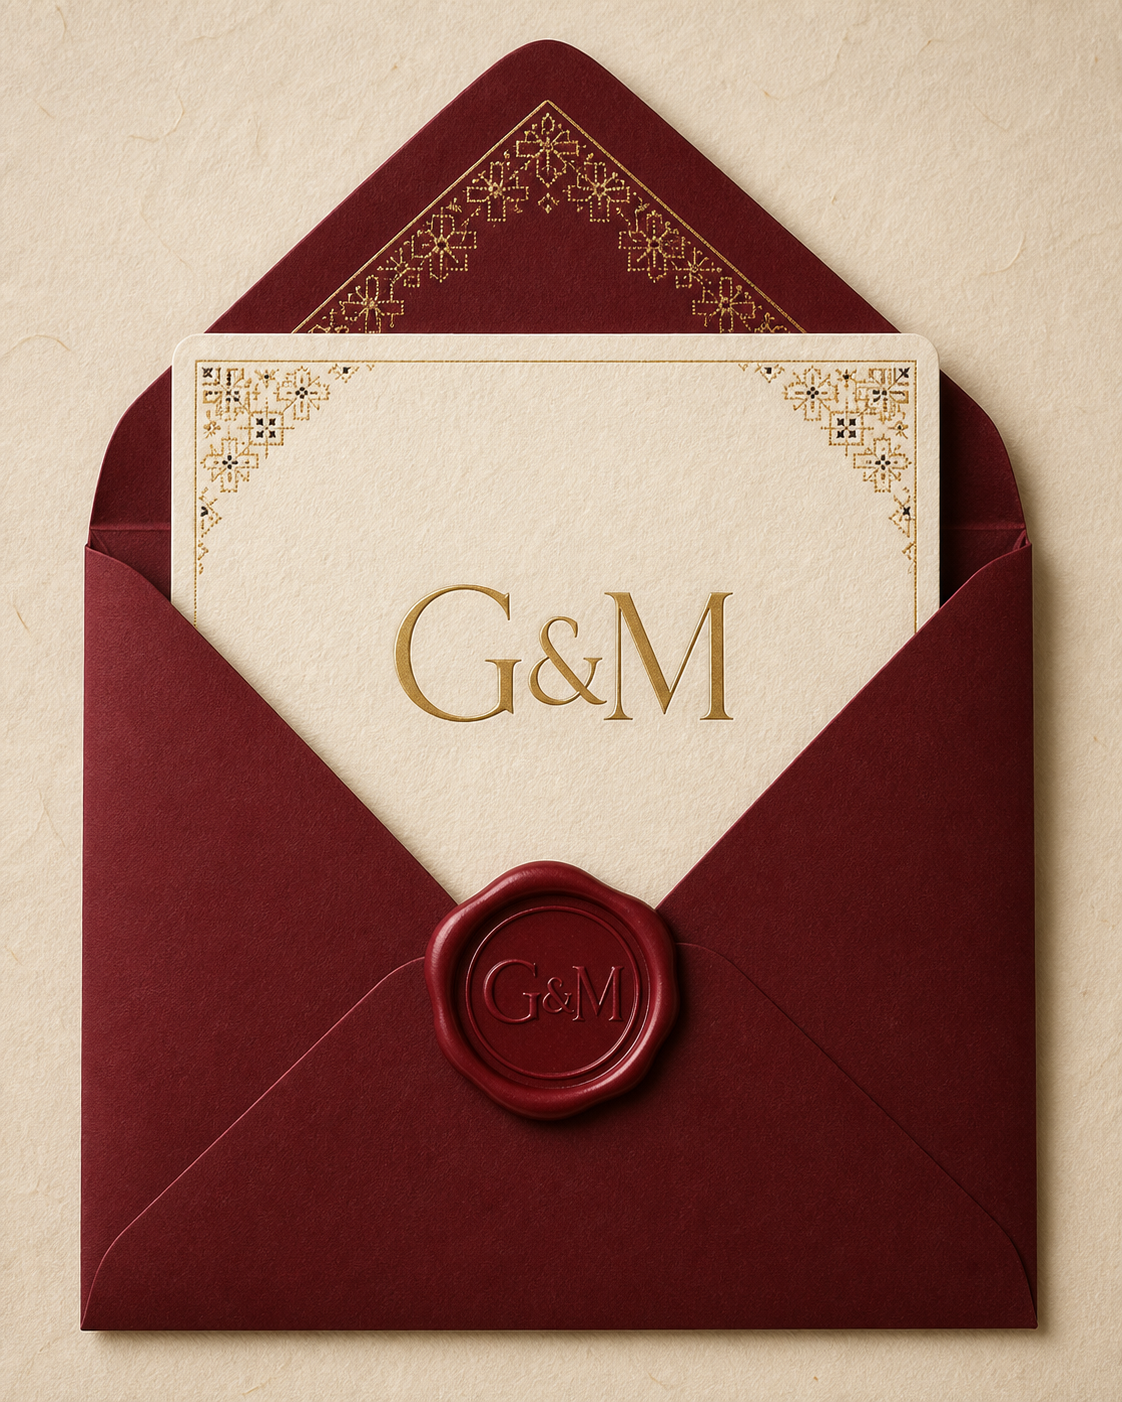
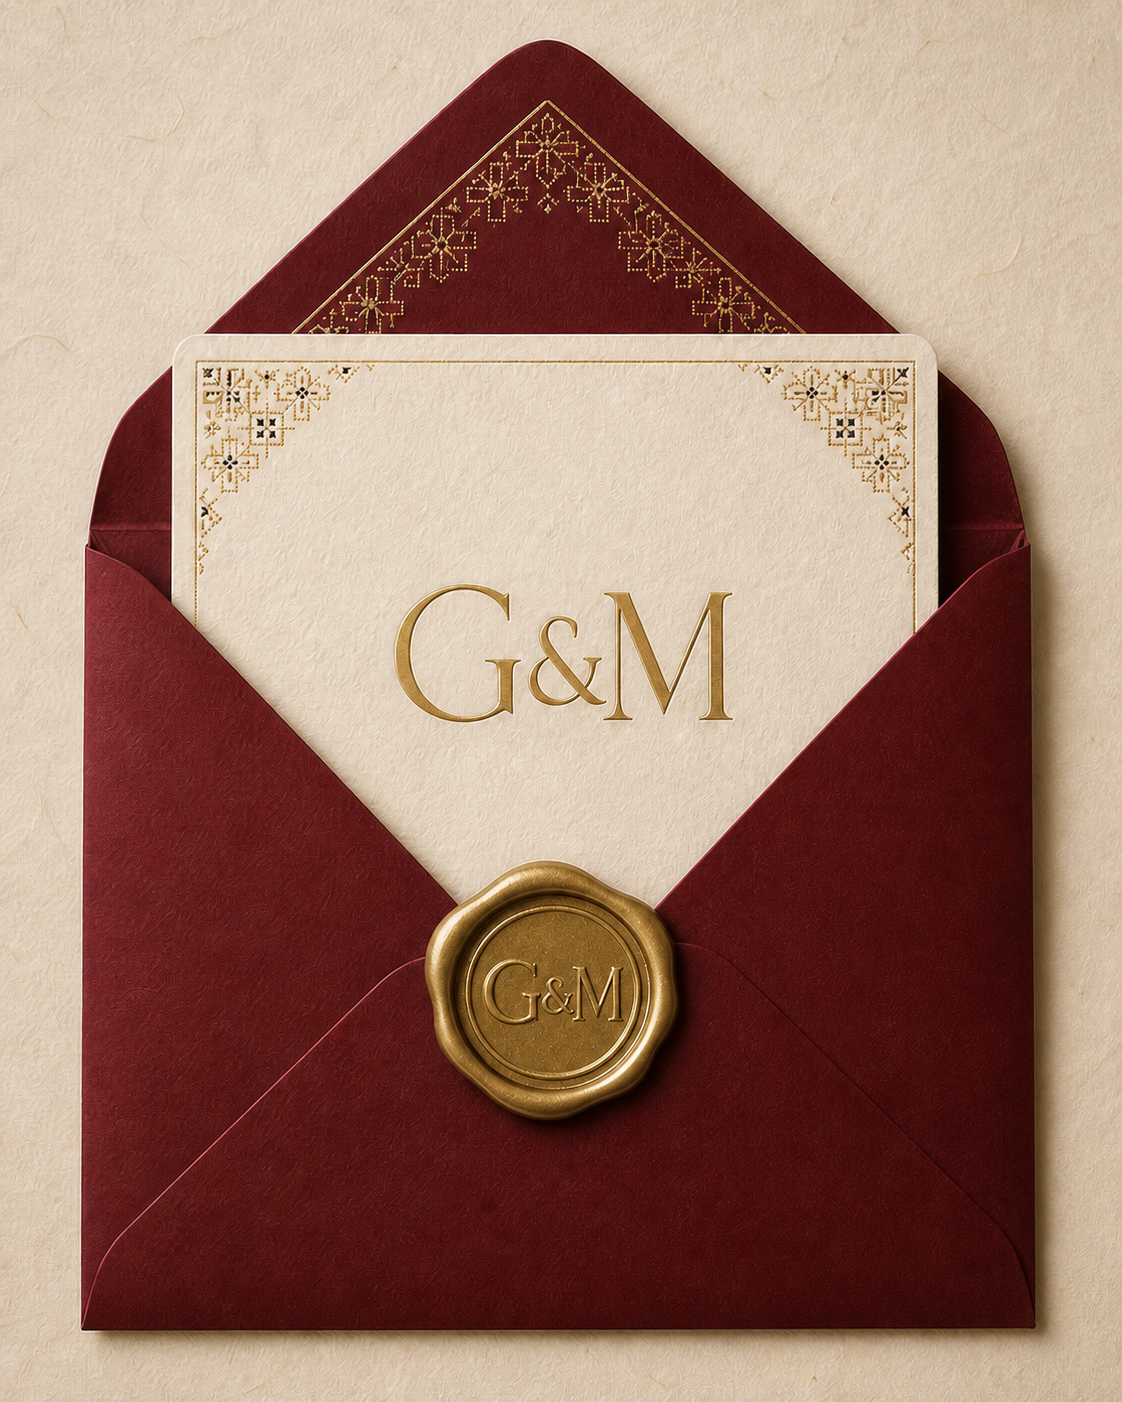
Extender fondo beige y dorar sello

diff --git a/src/styles.css b/src/styles.css
@@ -40,7 +40,7 @@ button:focus-visible, a:focus-visible, input:focus-visible, select:focus-visible
 .hero-date { margin: 22px 0 0; font: 500 1.5rem/1 var(--serif); letter-spacing: .38em; }
 
 .paper-section, .dress-section { position: relative; padding: 84px 72px; text-align: center; background: rgba(251, 247, 239, .72); }
-.invitation-card { padding: 38px 32px 76px; background: #e8ddd0; }
+.invitation-card { padding: 38px 32px 130px; background-color: #e8ddd0; background-image: linear-gradient(rgba(232, 221, 208, .76), rgba(232, 221, 208, .76)), var(--paper-texture); background-position: center top; background-size: auto, 100% auto; background-repeat: repeat, repeat-y; }
 .envelope-image { display: block; width: 100%; aspect-ratio: 4 / 5; object-fit: cover; border: 1px solid rgba(198, 161, 91, .44); box-shadow: 0 15px 35px rgba(65, 7, 13, .15); filter: saturate(1.08) contrast(1.04); }
 .invitation-copy { position: relative; width: calc(100% - 40px); margin: -68px auto 0; padding: 52px 38px 46px; background: var(--ivory); border: 1px solid var(--gold); box-shadow: 0 16px 30px rgba(65, 7, 13, .14); }
 .invitation-copy::before { content: ""; position: absolute; inset: 11px; border: 1px solid rgba(111, 17, 29, .38); pointer-events: none; }
@@ -154,7 +154,7 @@ button:focus-visible, a:focus-visible, input:focus-visible, select:focus-visible
   .hero { min-height: 820px; }
   .hero-copy { padding: 62px 22px 54px; transform: translateY(-62px); }
   .paper-section, .dress-section, .rsvp-section { padding-left: 28px; padding-right: 28px; }
-  .invitation-card { padding: 22px 16px 62px; }
+  .invitation-card { padding: 22px 16px 104px; }
   .invitation-copy { width: calc(100% - 20px); margin-top: -48px; padding-inline: 24px; }
   .countdown-section { height: 510px; }
   .countdown-grid { gap: 2px; }
